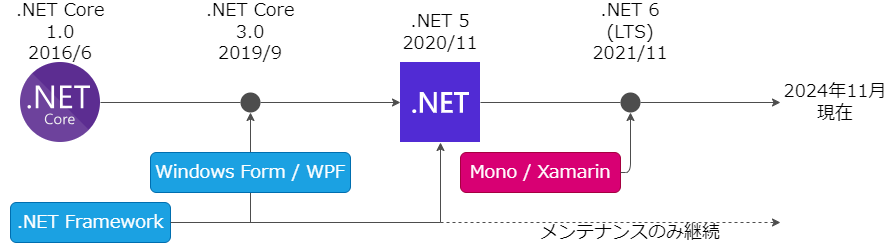
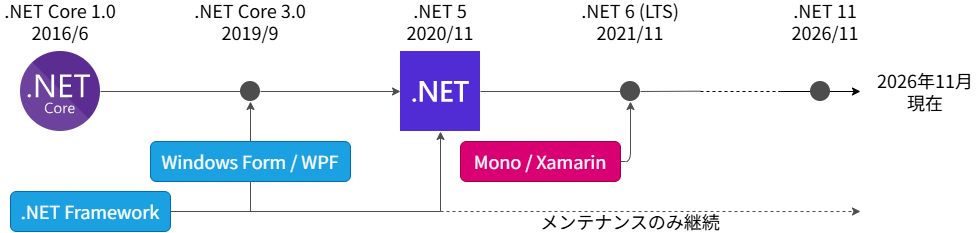
最新の.NET Frameworkの状況に合わせてドキュメントを更新

diff --git a/documents/contents/guidebooks/migration/dotnetfw-risk/migration-to-dotnet.md b/documents/contents/guidebooks/migration/dotnetfw-risk/migration-to-dotnet.md
@@ -10,24 +10,36 @@ description: .NET Framework にとどまり続けることで起こりうる リ
 
 ## 基本的な方針 {#basic-policy}
 
-.NET Framework と .NET の間には単純互換性がないため、原則手作業でコードを書き直す必要があります。
+.NET Framework と .NET の間には単純な互換性がないため、移行にあたっては、プロジェクトファイルや依存ライブラリの変更、 API の置き換え、アプリケーションの構成変更などが必要になります。
 
-!!! warning ".NET Upgrade Assistant （非推奨）について"
+こうした移行作業には、 Microsoft が提供する [GitHub Copilot アップグレード :material-open-in-new:](https://learn.microsoft.com/ja-jp/dotnet/core/porting/github-copilot-upgrade/overview){ target=_blank } を活用できます。
 
-    .NET Framework → .NET への変換ツールとして、以前は Microsoft が提供する .NET Upgrade Assistant がありました。
-    しかし、このツールは [正式に非推奨となってしまった :material-open-in-new:](https://learn.microsoft.com/ja-jp/dotnet/core/porting/upgrade-assistant-overview){ target=_blank } ため、
-    2025 年 11 月現在、 .NET Framework からの移行ツールは存在しません。
+GitHub Copilot アップグレードは、 AI エージェントによって既存のプロジェクトや依存関係を分析し、アップグレード計画の作成からコードの変更、ビルドやテストによる検証までを支援するツールです。 .NET Framework から .NET への移行にも対応しており、従来のプロジェクト形式から SDK スタイルへの変換や、ライブラリの置き換え、アプリケーションアーキテクチャの移行などを支援します。
+
+ただし、 GitHub Copilot アップグレードによって、すべての移行作業が自動的に完了するわけではありません。生成された変更内容や移行計画を開発者が確認し、必要に応じて修正するとともに、移行後のアプリケーションが正常に動作することを十分に検証する必要があります。
+
+具体的な利用方法や対応する移行シナリオについては、 Microsoft の公式ドキュメントを参照してください。
+
+- [GitHub Copilot アップグレードの概要](https://learn.microsoft.com/ja-jp/dotnet/core/porting/github-copilot-upgrade/overview)
+- [GitHub Copilot アップグレードを使用して .NET アプリをアップグレードする方法](https://learn.microsoft.com/ja-jp/dotnet/core/porting/github-copilot-upgrade/dotnet-how-to-upgrade-with-github-copilot)
 
 ## 移行のハードル {#obstacles-to-migration}
 
 ### 書き換えが必要な .NET Framework の機能 {#dotnetfw-function-to-rewrite}
 
-以下の .NET Framework 機能は、.NET では廃止または非常に使用しづらいため、.NET の機能へ書き換える必要があります。
-なお、前述のとおり、どの機能においても移行方法は手作業でのソースコード書き換えとなります。
+以下の .NET Framework の機能は、 .NET では廃止されている、または同等の機能を利用することが難しいため、 .NET で利用可能な技術や機能への置き換えが必要になります。
+
+これらの機能の移行にあたっては、 GitHub Copilot アップグレードを活用することで、既存コードの分析や移行先の技術への置き換えを支援できます。ただし、移行先の技術選定や設計の見直しが必要になる場合もあるため、生成されたコードをそのまま利用できるとは限りません。
+
+各機能の具体的な移行方法については、 Microsoft の公式ドキュメントも参照してください。
 
 #### ASP.NET Web Forms ( 廃止 ) {#aspnet-web-forms}
 
-- 移行先候補: ASP.NET Core MVC や Blazor , SPA ( Vue.js など )
+- 移行先候補: Blazor (Microsoft 推奨 ) , SPA ( Vue.js など )
+
+!!! info "GitHub Copilot 向けのスキル"
+
+    Microsoft は GitHub Copilot 向けに ASP.NET Web Forms から Blazor へのアップグレード用スキルを公開しています。
 
 !!! warning "画面設計の見直しも検討すべし"
 
@@ -60,6 +72,7 @@ description: .NET Framework にとどまり続けることで起こりうる リ
 
 ### 短い製品ライフサイクルへの追従 {#adapt-to-short-product-life-cycles}
 
+<!-- textlint-disable @textlint-ja/no-synonyms -->
 .NET は、 .NET Framework に対して製品ライフサイクルが短期化されています。
 LTS 版であっても 3 年間のサポートしか提供されません。
 つまり、 .NET の場合、これまでの「納品までが仕事」というビジネスモデルは通用しません。
@@ -68,6 +81,7 @@ LTS 版であっても 3 年間のサポートしか提供されません。
 ## 結論 {#conclusion}
 
 .NET 関連技術は、大きな変革の時期を迎えています。
+<!-- textlint-enable @textlint-ja/no-synonyms -->
 
 - .NET Framework の開発停止
 - ASP.NET Web Forms など過去の主要技術の終焉

diff --git a/documents/contents/guidebooks/migration/dotnetfw-risk/dotnet-runtime-trends.md b/documents/contents/guidebooks/migration/dotnetfw-risk/dotnet-runtime-trends.md
@@ -5,7 +5,7 @@ description: .NET Framework にとどまり続けることで起こりうる リ
 
 # .NET ランタイムの最新動向 {#top}
 
-2024 年 11 月現在、 .NET ランタイムには以下があります。
+2026 年 11 月現在、 .NET ランタイムには以下があります。
 
 - .NET Framework
     - Windows 上でのみ動作する
@@ -36,7 +36,7 @@ description: .NET Framework にとどまり続けることで起こりうる リ
 .NET ( .NET Core ) や .NET Framework は、 .NET Standard の実装という位置づけになりました。
 
 その後 .NET Core は .NET と改称し、 Windows 、 Linux の他 macOS にも対応しました。
-2025 年現在は .NET 10.0 がリリースされています ( .NET 10.0 は、 .NET Standard 2.1 の実装です ) 。
+2026 年現在は .NET 11.0 がリリースされています ( .NET 11.0 は、 .NET Standard 2.1 の実装です ) 。
 このように、 .NET Framework と .NET は、どちらも .NET Standard の実装です。
 プログラミング言語として C# を使うものの、以下のように異なるものです。
 
@@ -69,7 +69,7 @@ description: .NET Framework にとどまり続けることで起こりうる リ
 
 !!! note
 
-    上の宣言の時点で .NET Framework の最新バージョンは 4.8 だったため、これが最後のバージョンになると目されていました。しかし、2022 年 8 月 9 日に .NET Framework 4.8.1 がリリースされたため、 2024 年現在、 .NET Framework の最新バージョンは 4.8.1 です。
+    上の宣言の時点で .NET Framework の最新バージョンは 4.8 だったため、これが最後のバージョンになると目されていました。しかし、2022 年 8 月 9 日に .NET Framework 4.8.1 がリリースされたため、 2026 年現在、 .NET Framework の最新バージョンは 4.8.1 です。
 
 実際に、 2021 年 11 月にリリースされた .NET 6.0 は .NET Standard 2.1 の実装であったのに対し、 .NET Framework 4.8.1 は、 .NET Standard 2.0 の実装のままでした。
 .NET Framework 4.8.1 では .NET Standard 2.1 で定義されている API を使えません。
@@ -93,7 +93,7 @@ description: .NET Framework にとどまり続けることで起こりうる リ
 | .NET Framework 4.8            | 同上                                |
 | .NET Framework 4.8.1          | 同上                                |
 
-2024 年 11 月現在、すでに .NET Framework 4.6.1 以下の .NET Framework 4.x 系は Microsoft のサポートが終了しています。
+2026 年 11 月現在、すでに .NET Framework 4.6.1 以下の .NET Framework 4.x 系は Microsoft のサポートが終了しています。
 また、 .NET Framework 3.5 SP1 も OS のバージョンによらず、 2029 年 1 月 9 日にサポートが終了します。
 
 すべての .NET Framework がすぐにサポート停止される可能性は非常に低いです。
